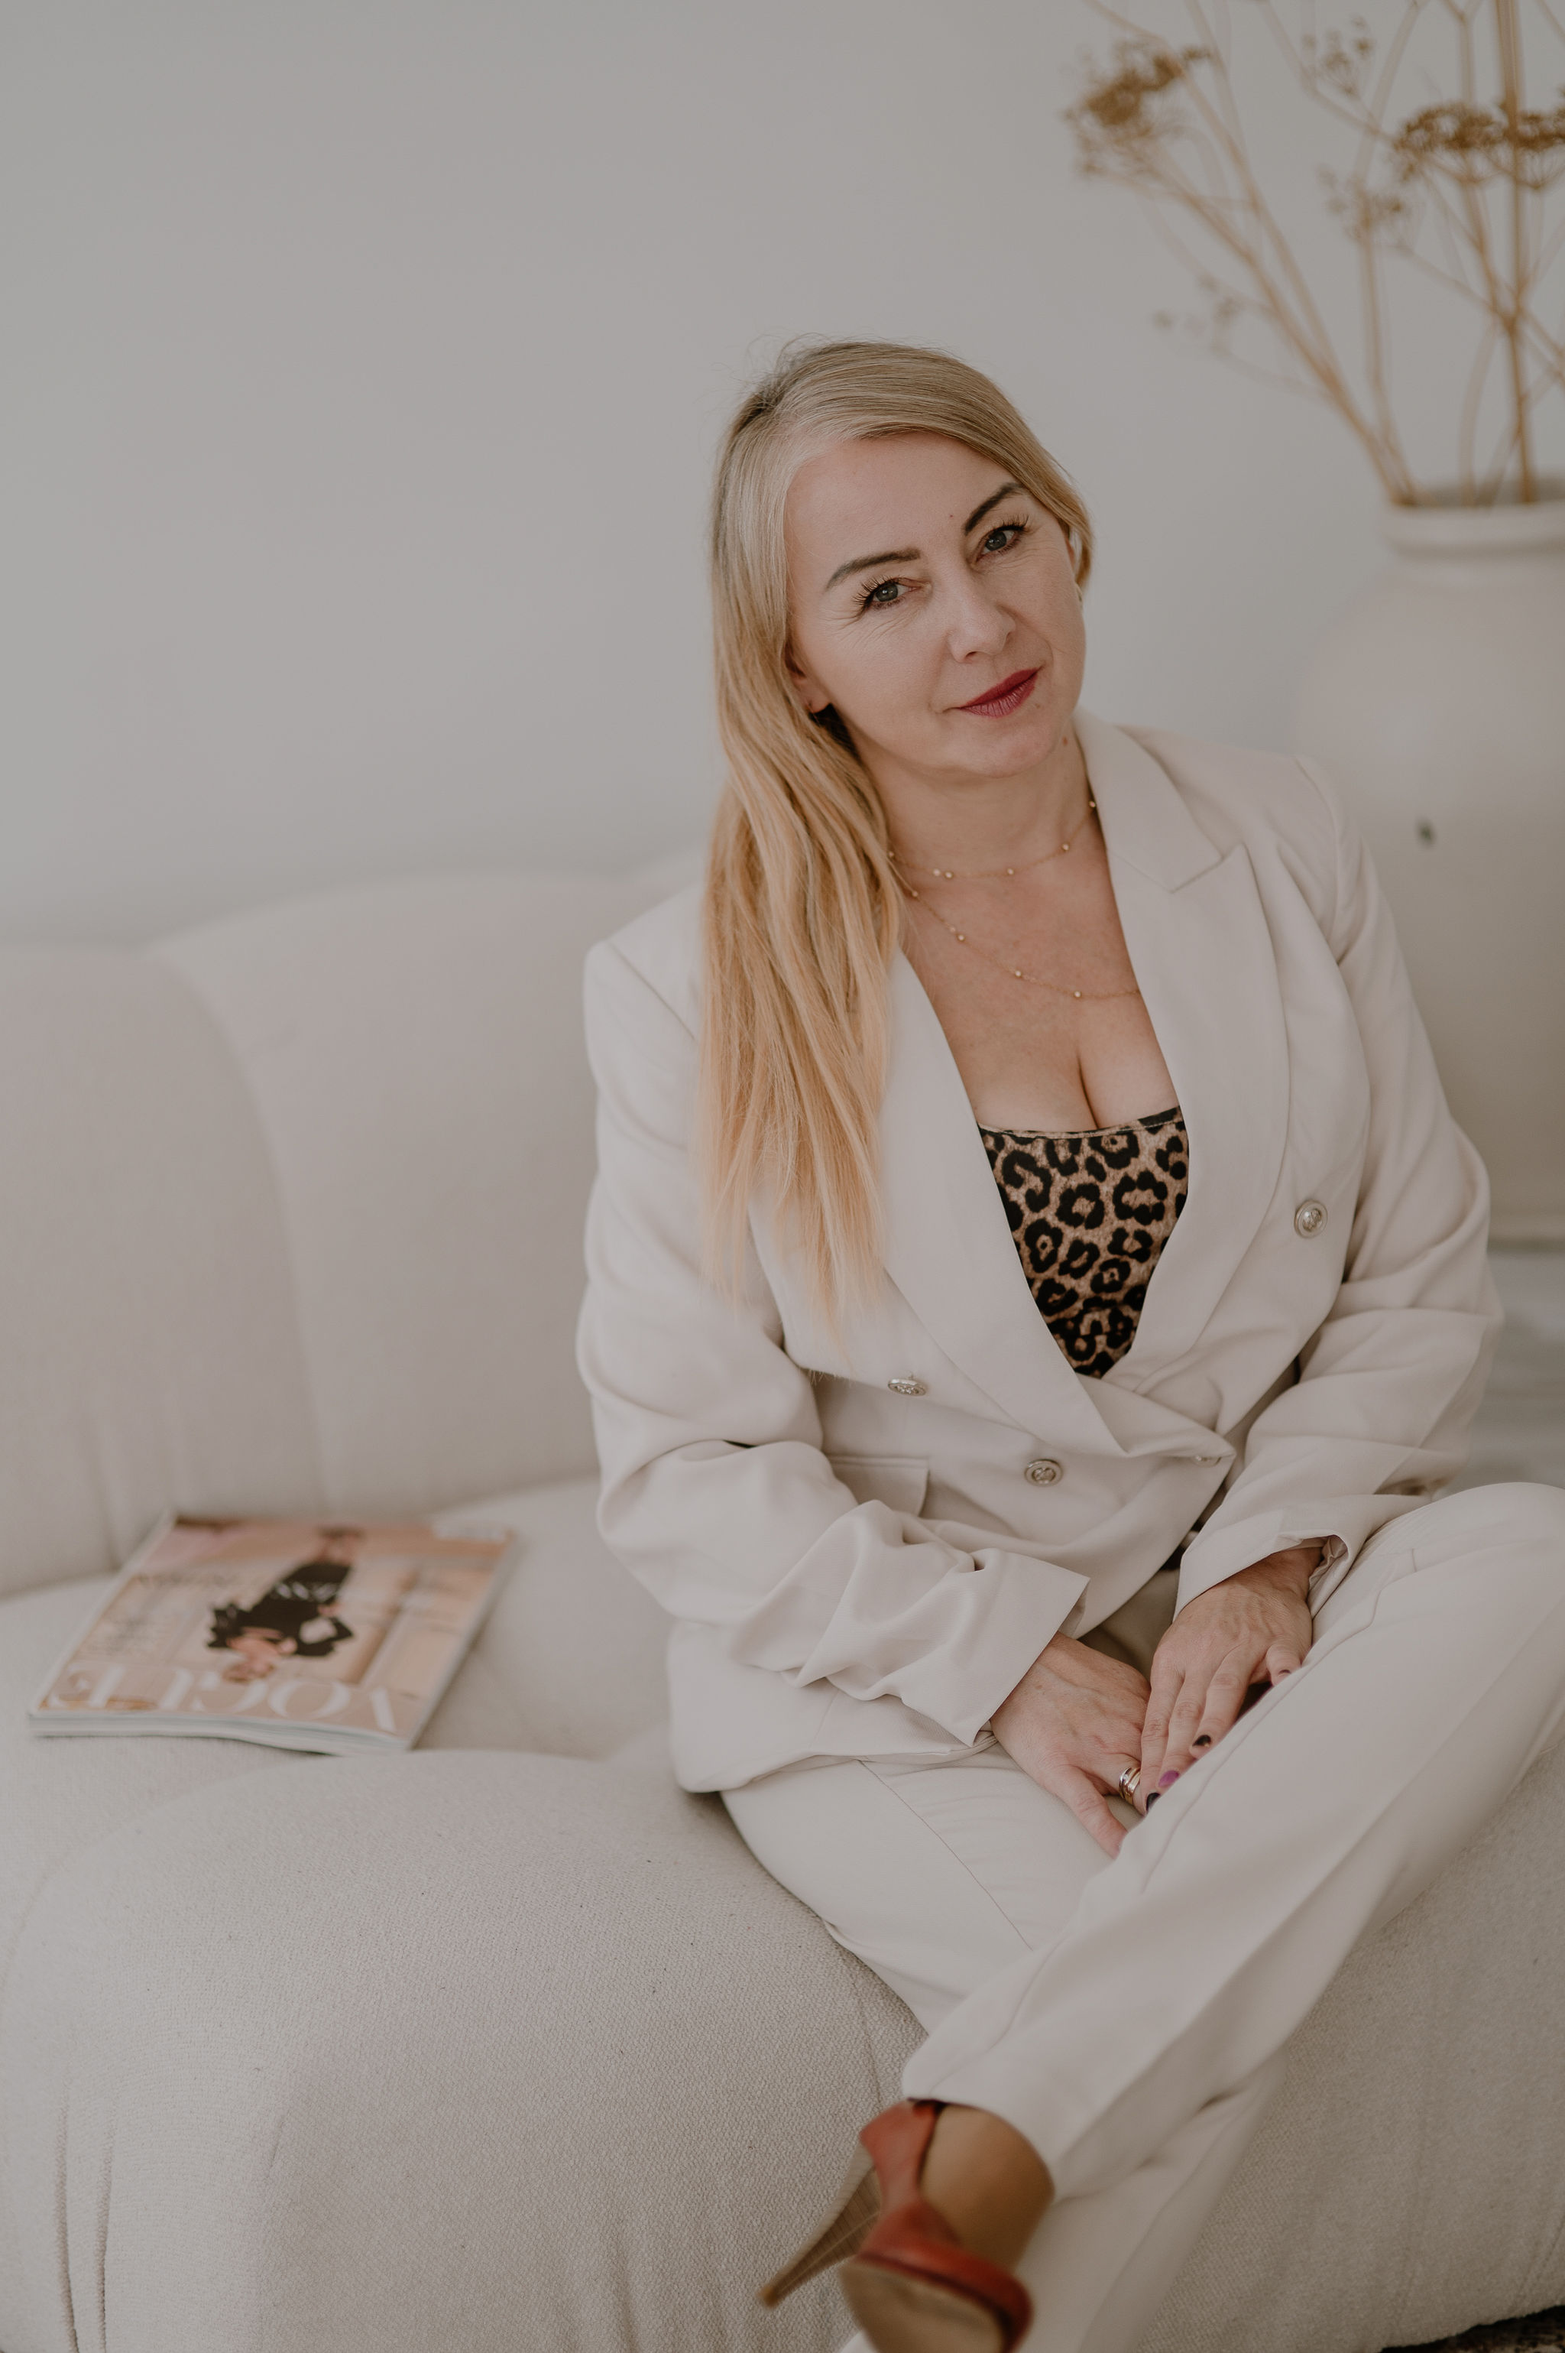
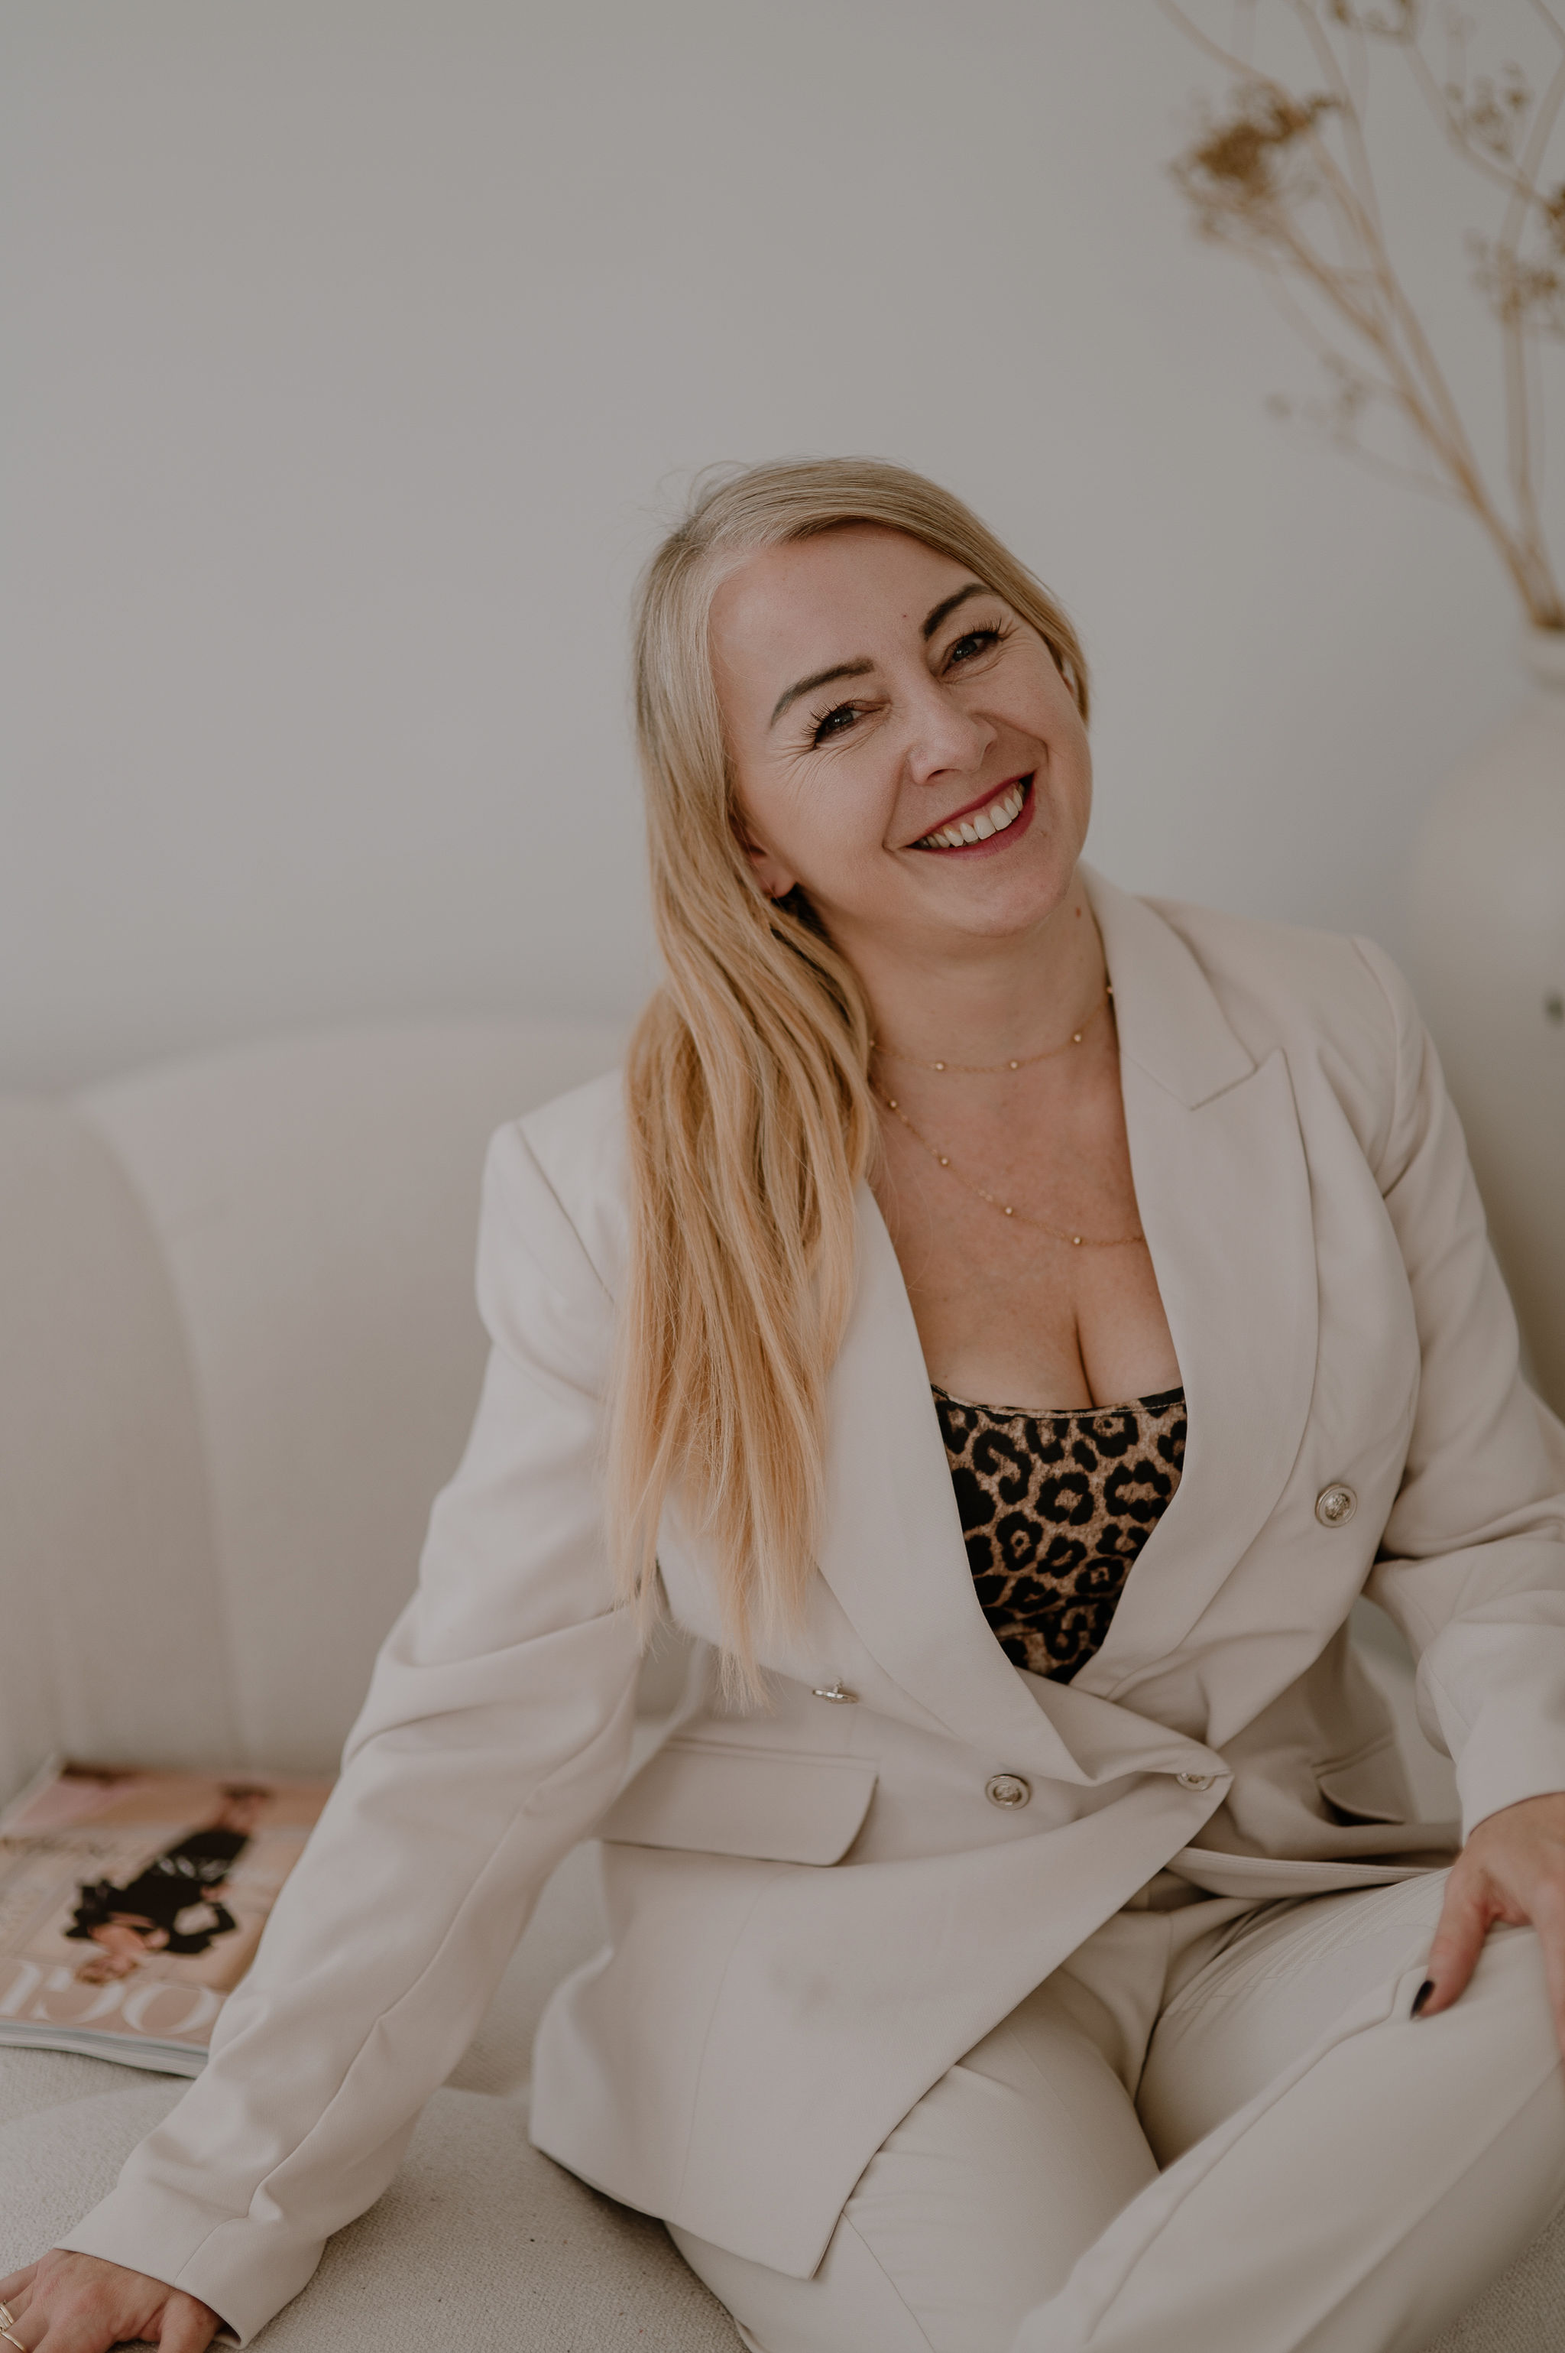
Zespol: poprawione zdjecia Janusz(starszy)/Sylwia/Agnieszka HD. O firmie: zdjecie+podpis historii (agentka przy telefonie), grid agentow na 4 kolumny

diff --git a/components/sections/why-us.tsx b/components/sections/why-us.tsx
@@ -153,8 +153,8 @@ export function OnasContent() {
             >
               <div className="relative aspect-[4/5] overflow-hidden rounded-[24px] border border-border shadow-soft sm:aspect-[5/4] lg:aspect-[4/5]">
                 <Image
-                  src="/images/zespol-trojmiasto.jpg"
-                  alt="Zespół Dom Hunter podczas pracy nad ofertą"
+                  src="/images/biuro-telefon.jpg"
+                  alt="Agentka Dom Hunter odbiera telefon od klienta"
                   fill
                   sizes="(min-width: 1024px) 46vw, 100vw"
                   className="object-cover object-center"
@@ -165,10 +165,10 @@ export function OnasContent() {
                 />
                 <div className="absolute bottom-6 left-6 right-6">
                   <p className="text-[11px] font-semibold uppercase tracking-[0.22em] text-white/75">
-                    Trójmiasto
+                    Zawsze pod telefonem
                   </p>
                   <p className="mt-2 font-display text-xl leading-snug text-white">
-                    Razem nad każdą sprawą, od pierwszej rozmowy po podpisanie aktu.
+                    Oddzwaniamy tego samego dnia, nie po tygodniu.
                   </p>
                 </div>
               </div>
@@ -237,7 +237,7 @@ export function OnasContent() {
             </p>
           </motion.div>
 
-          <div className="grid grid-cols-1 gap-6 sm:grid-cols-2 lg:grid-cols-3 lg:gap-7">
+          <div className="grid grid-cols-1 gap-6 sm:grid-cols-2 lg:grid-cols-4 lg:gap-6">
             {members.map((member, i) => {
               const blurb = memberBlurbs[member.slug] ?? member.bio;
               return (
@@ -246,14 +246,14 @@ export function OnasContent() {
                   initial={{ opacity: 0, y: 28 }}
                   whileInView={{ opacity: 1, y: 0 }}
                   viewport={{ once: true, margin: "-40px" }}
-                  transition={{ duration: 0.6, delay: (i % 3) * 0.08, ease: EASE }}
+                  transition={{ duration: 0.6, delay: (i % 4) * 0.07, ease: EASE }}
                   className="group flex flex-col overflow-hidden rounded-[24px] border border-border bg-surface shadow-[0_2px_8px_-2px_rgba(25,25,25,0.06)] transition-all duration-400 hover:-translate-y-1.5 hover:border-brand hover:shadow-[0_28px_64px_-22px_rgba(211,30,192,0.28)]"
                 >
                   <div className="relative border-b border-border/70">
                     <MemberPhoto
                       member={member}
-                      sizes="(min-width: 1024px) 30vw, (min-width: 640px) 45vw, 100vw"
-                      className="aspect-[5/4] w-full"
+                      sizes="(min-width: 1024px) 23vw, (min-width: 640px) 45vw, 100vw"
+                      className="aspect-[4/5] w-full"
                     />
                     {member.isOwner && (
                       <span className="absolute left-4 top-4 inline-flex items-center rounded-full bg-brand px-3 py-1 text-[10px] font-bold uppercase tracking-[0.16em] text-white shadow-soft">
